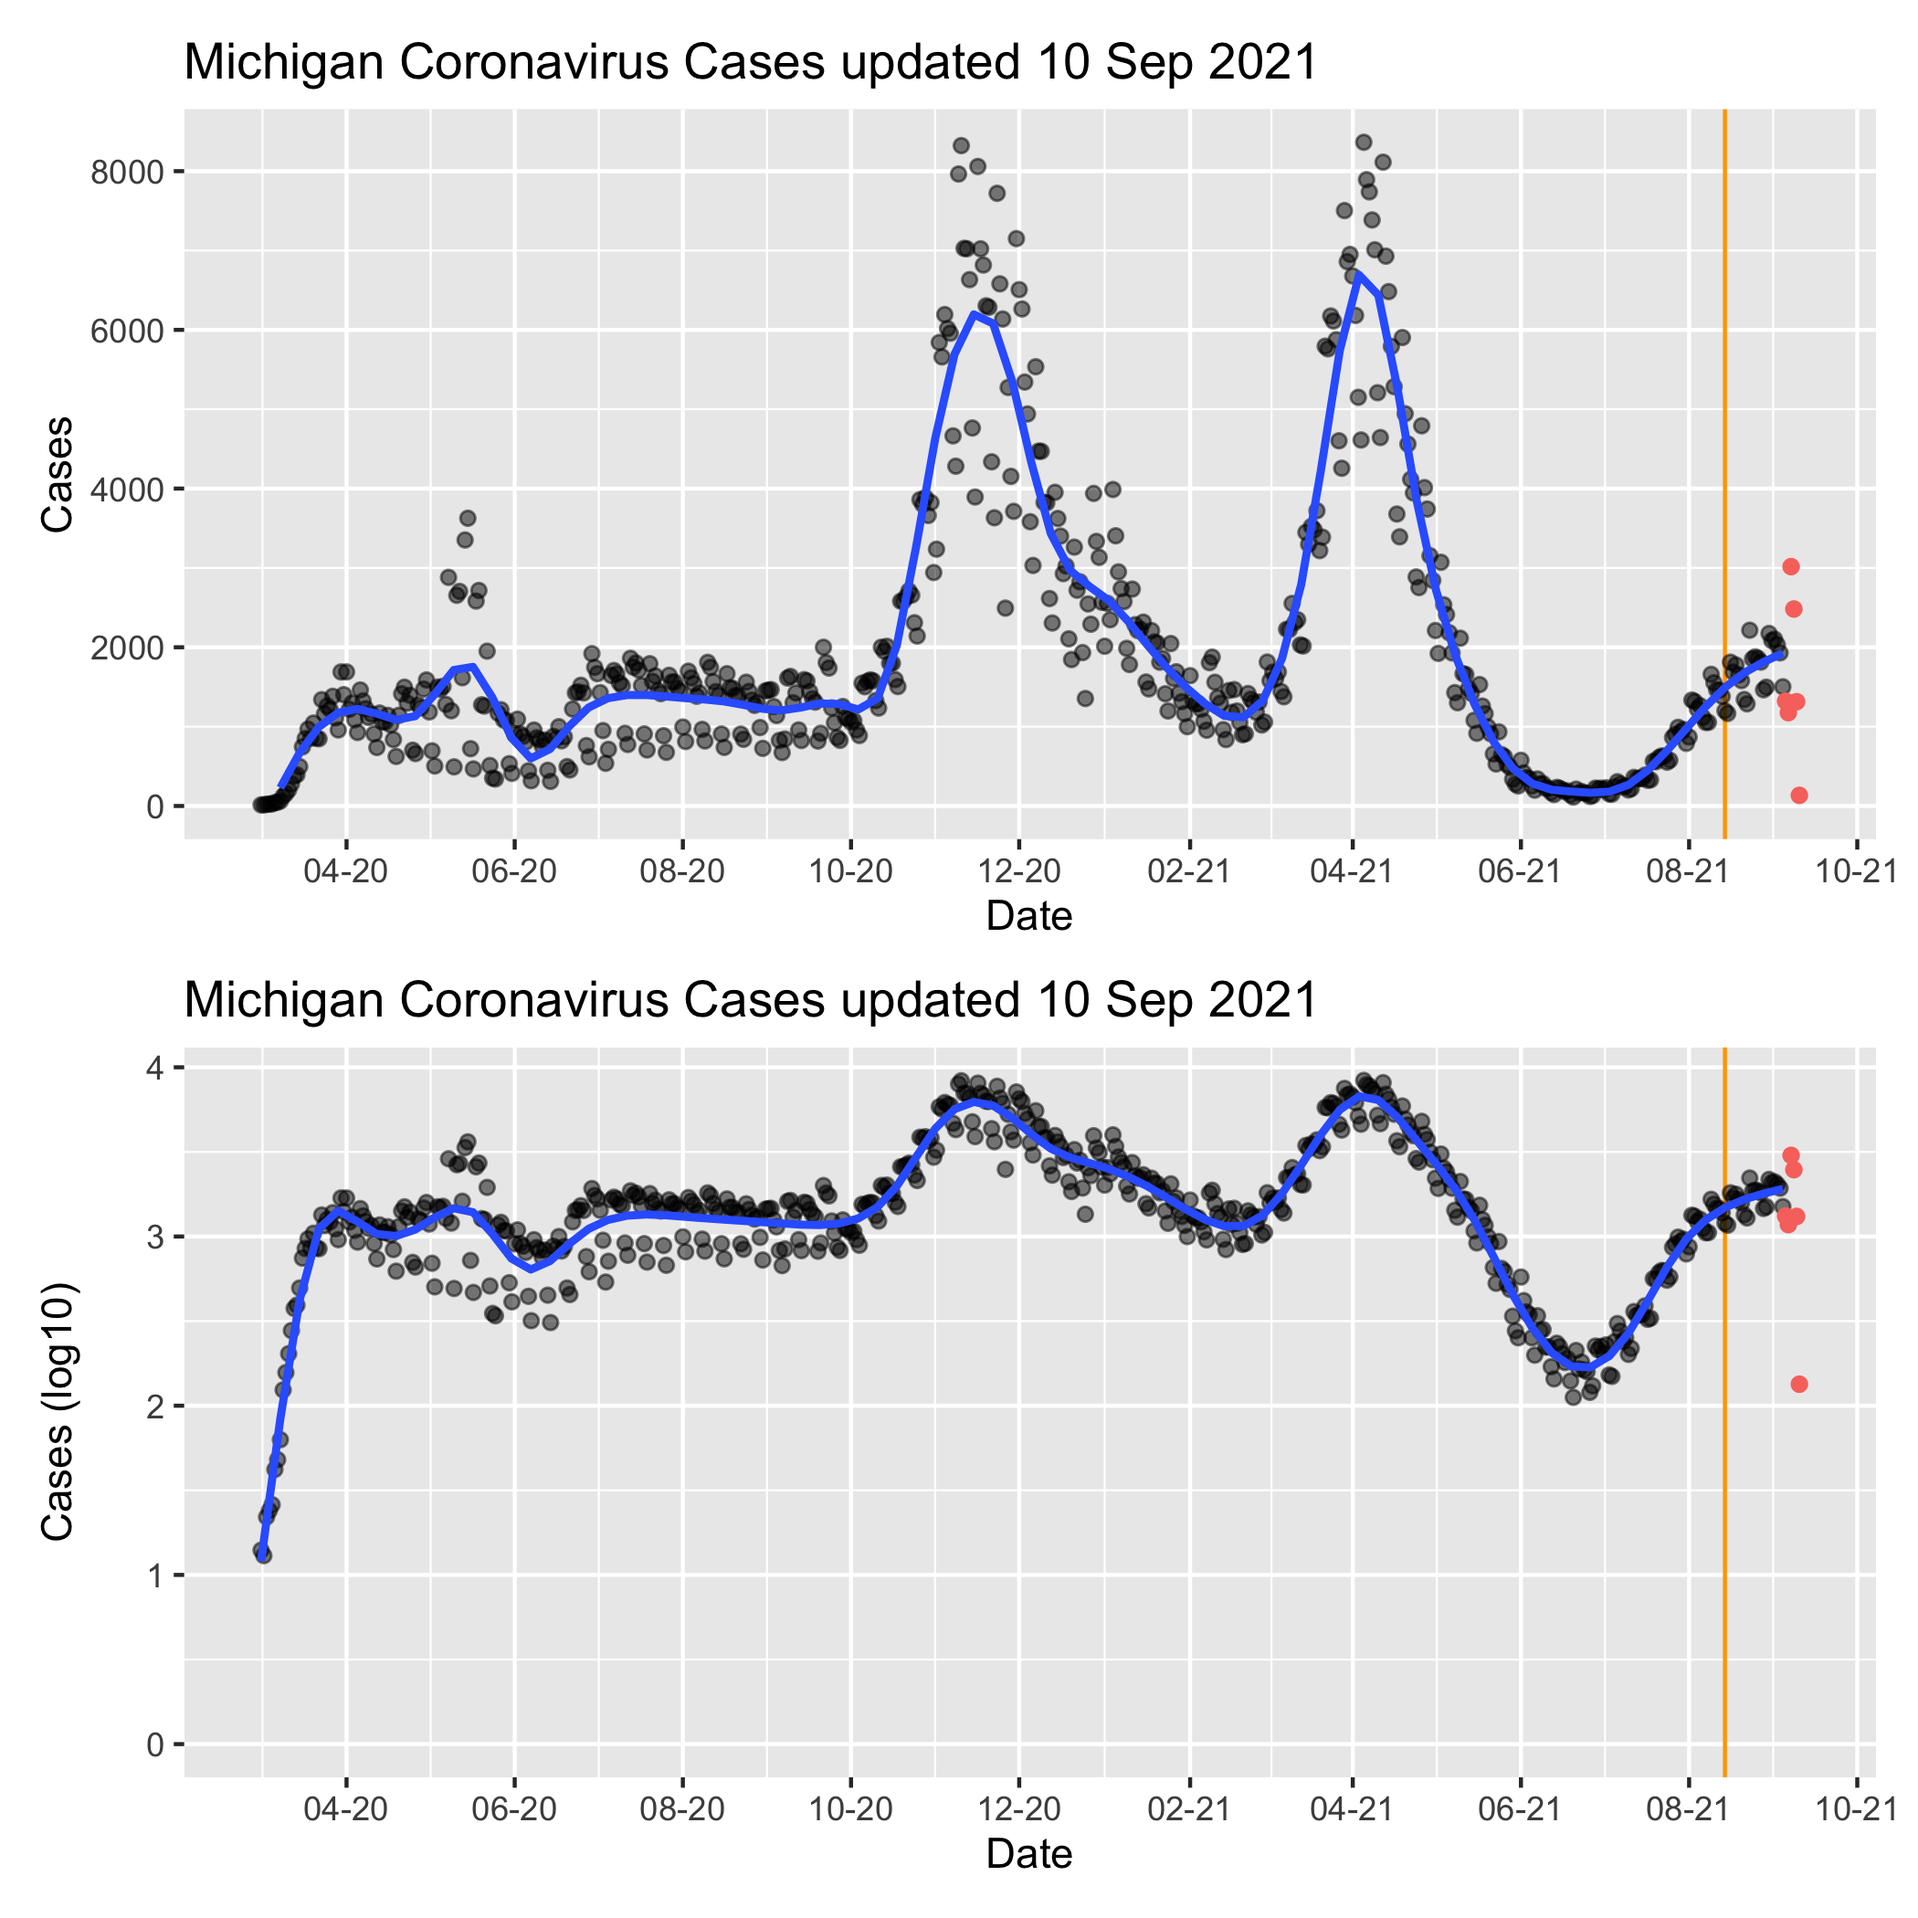
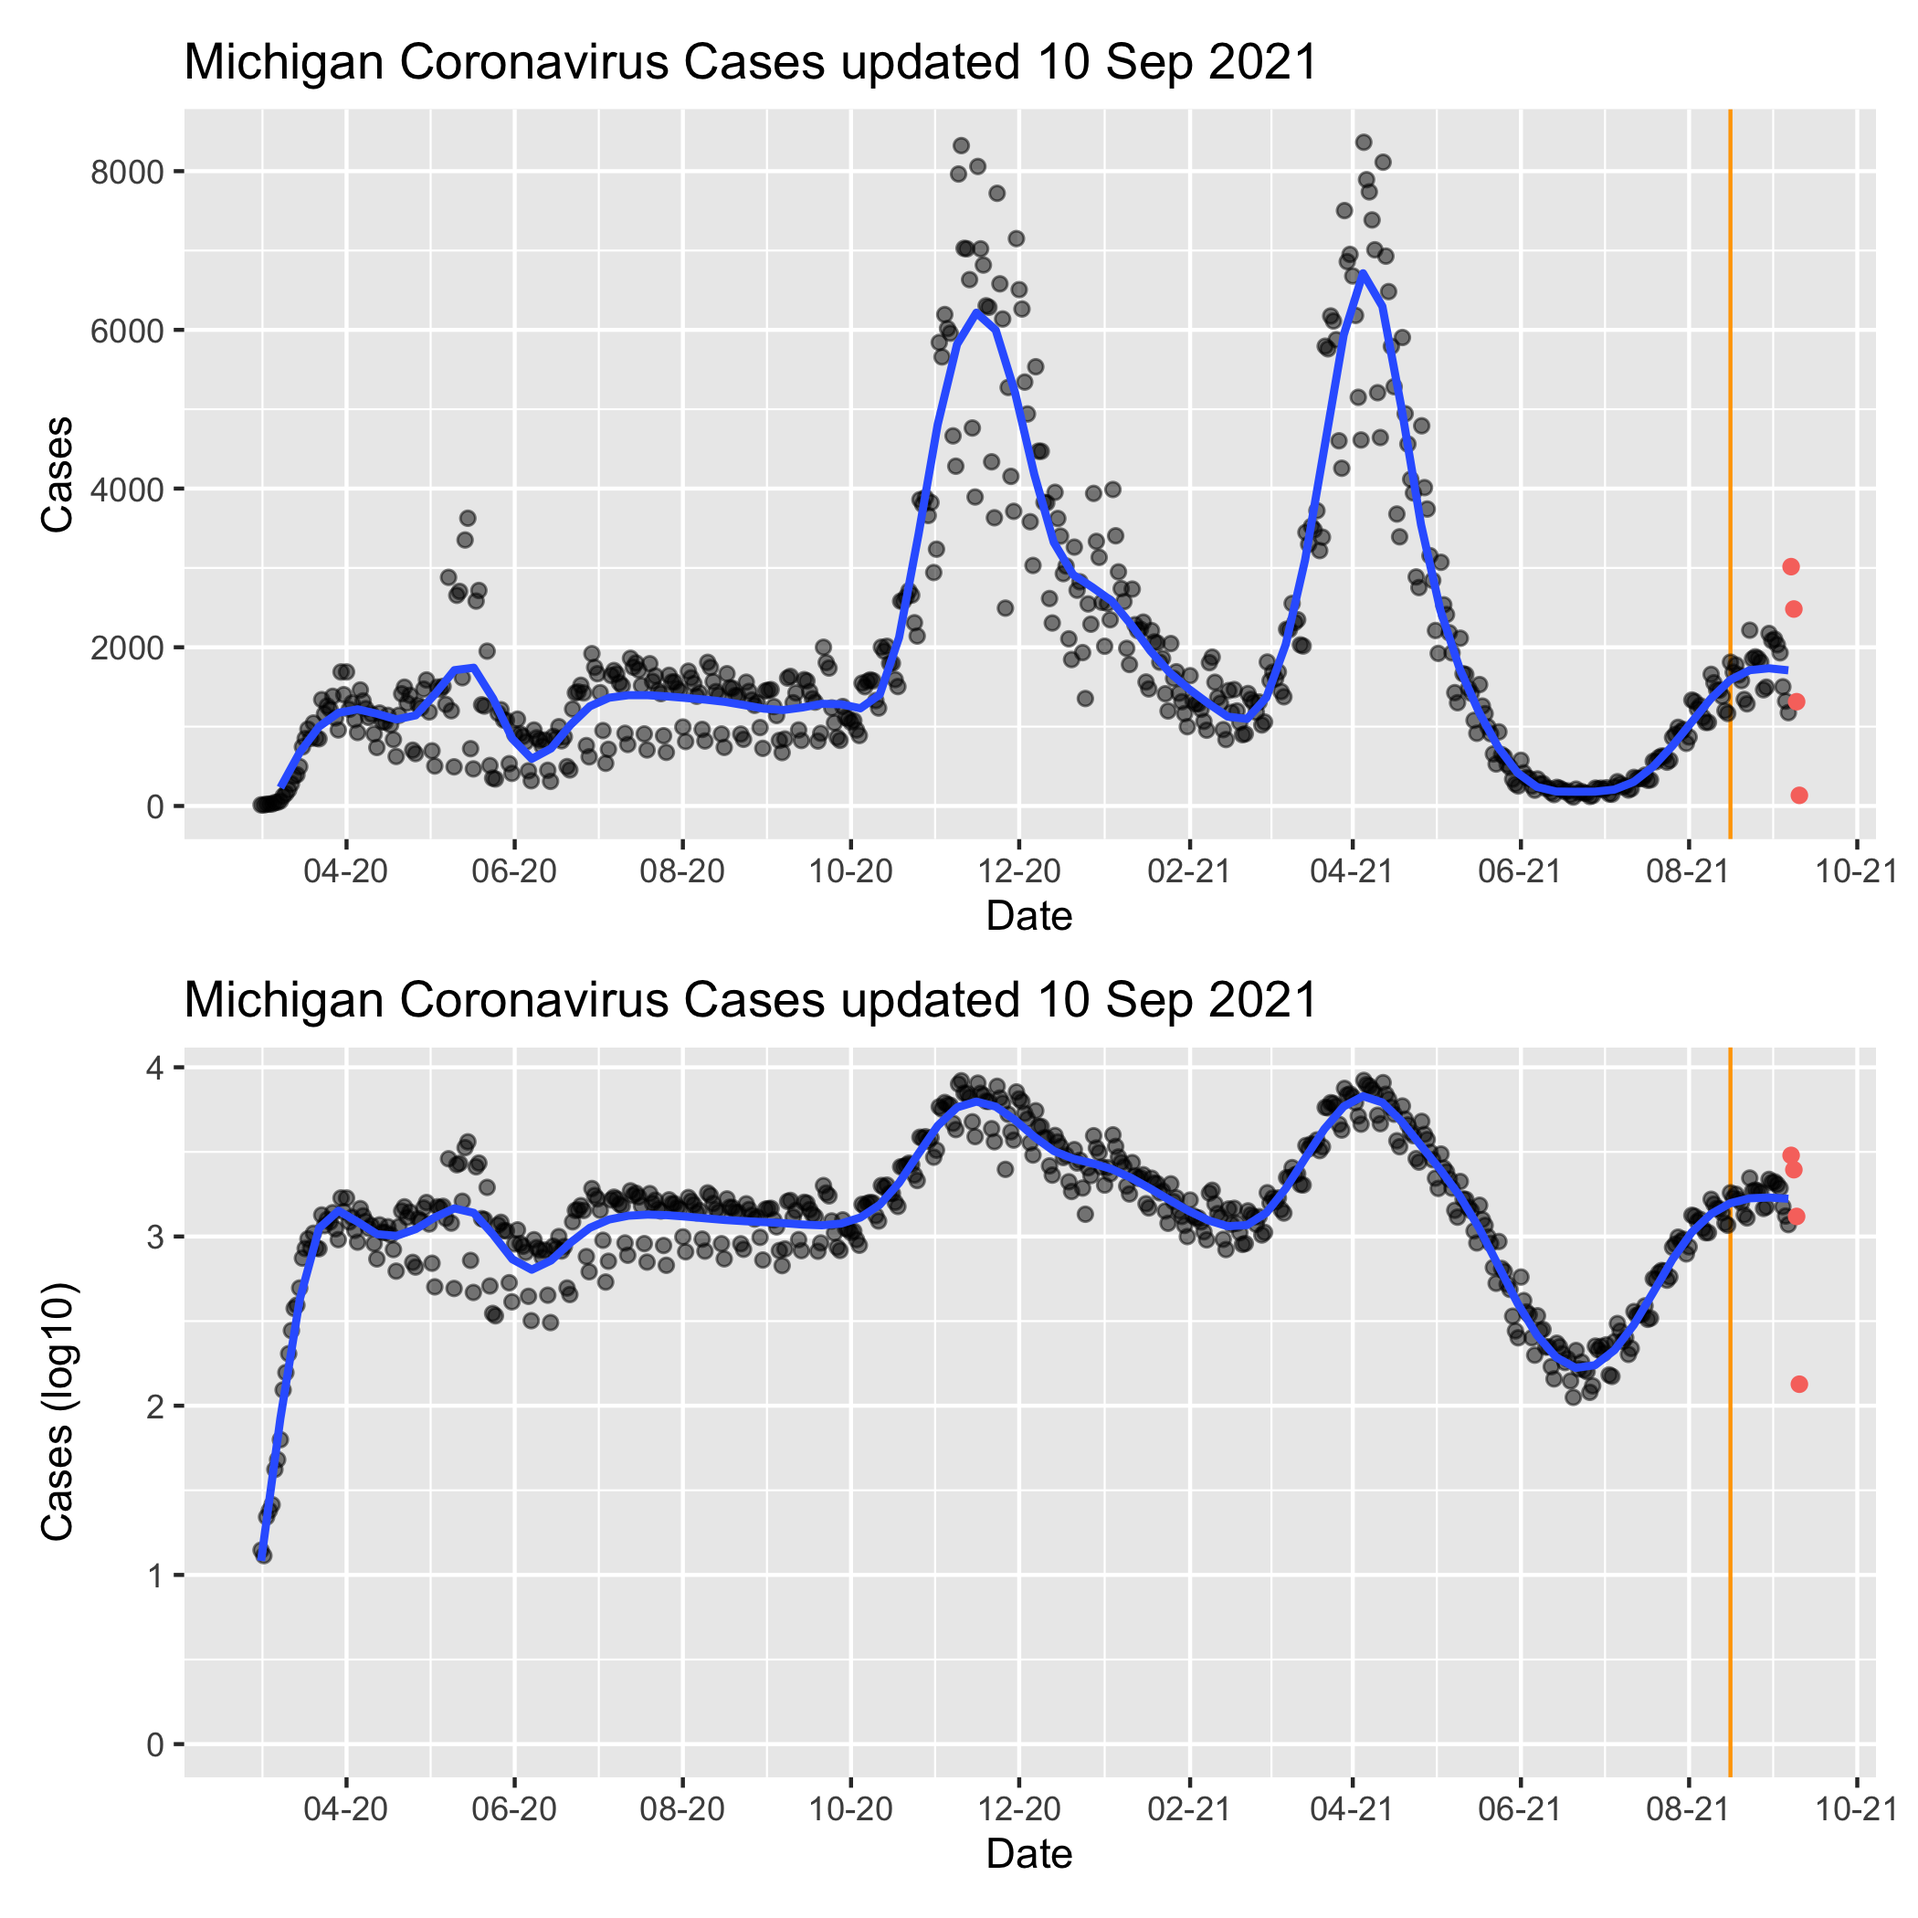
Sep-13 2021 09:08 update

Changed region(s): [[0.8976, 0.5571, 0.9595, 0.9286], [0.8976, 0.0619, 0.9286, 0.4333]]

diff --git a/MiCorona.md b/MiCorona.md
@@ -1,7 +1,7 @@
 Michigan COVID Data
 ================
 Adam D. DenHaan
-Sep 11, 2021
+Sep 13, 2021
 
 Get link for data:
 
@@ -135,7 +135,7 @@ viz_function(mi_cases_by_day_exclusive, mi_cases_by_day_last4, Date, Deaths, ver
 
 ![](MiCorona_files/figure-gfm/viz2-1.png)<!-- -->
 
-Note that the last 6 days of data have been colored red on the graph, as
+Note that the last 4 days of data have been colored red on the graph, as
 they frequently change as more information becomes available. Vertical
 orange line at 4 weeks in the past (as hospitalizations and deaths
 usually follow cases by three weeks, and the deaths graph regression
